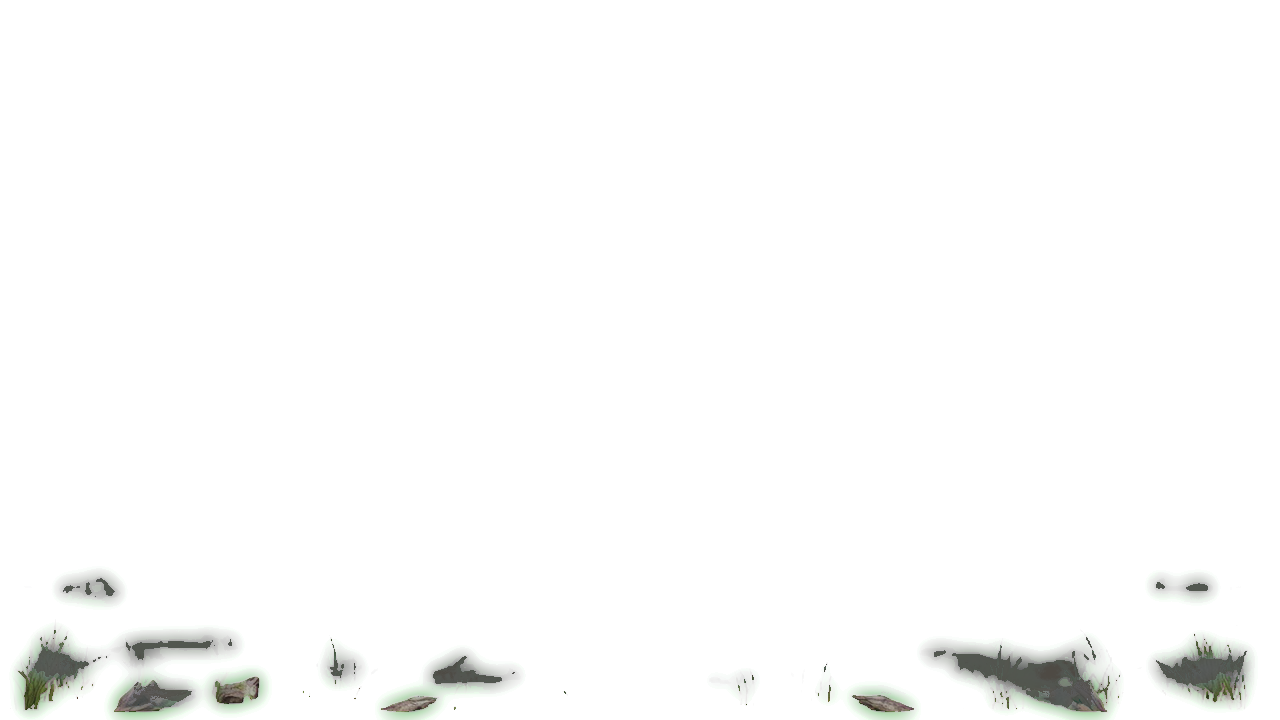
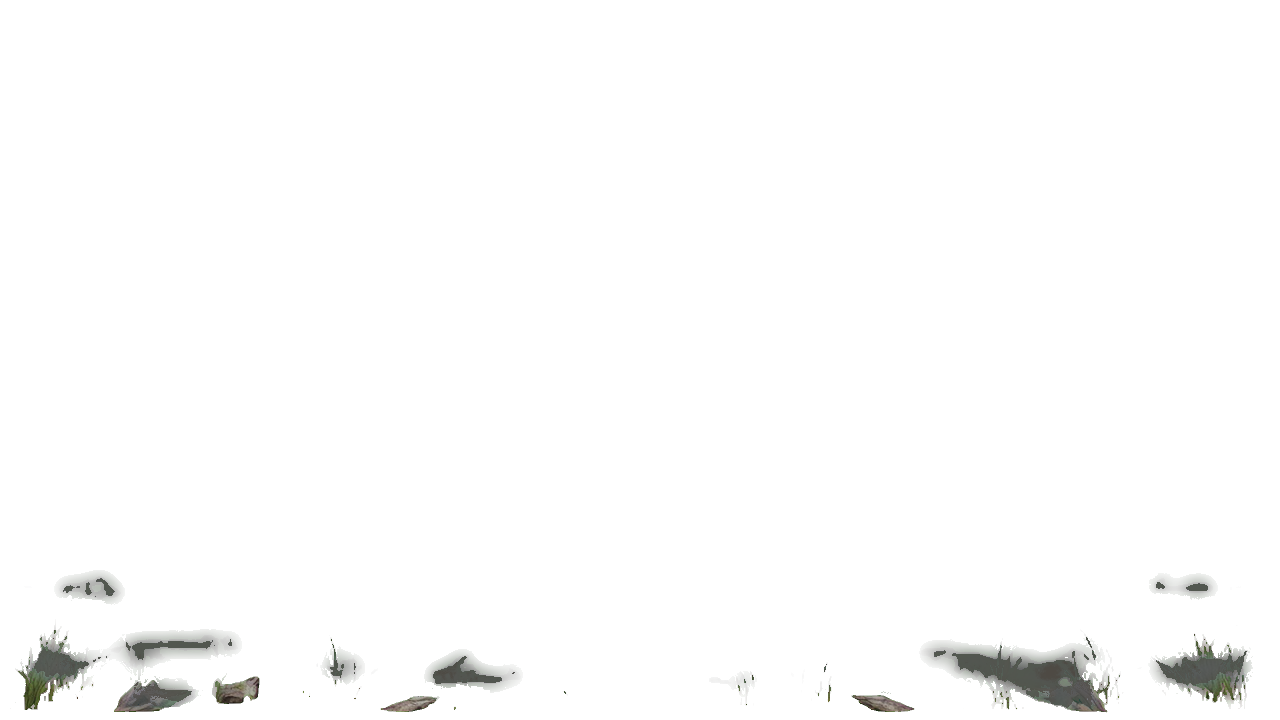
挂上 pr36 重亮多帧，并撤掉旅人静帧钉死。 (#52)
idle/walk/reach 与岸猫落地帧改回彩色多帧。岸猫框略低于旅人，岸门绿边去掉，壁画和裂符热区收到开场画面里。

diff --git a/src/ui/Traveler.test.tsx b/src/ui/Traveler.test.tsx
@@ -56,7 +56,7 @@ describe('traveler art', () => {
     const current = () => view.container.querySelector('[data-layer="current"]')?.getAttribute('src') ?? '';
     expect(mark?.getAttribute('data-figure')).toBe('traveler');
     expect(mark?.getAttribute('data-facing')).toBe('front');
-    expect(current()).toMatch(/04-front/);
+    expect(current()).toMatch(/idle-front-01/);
     expect(view.container.querySelector('.traveler-shade')).toBeNull();
     const shadow = view.container.querySelector('[data-testid="contact-shadow"]') as HTMLElement;
     expect(shadow).toBeTruthy();
@@ -76,6 +76,8 @@ describe('traveler art', () => {
     expect(TRAVELER_HEIGHT).toBeLessThan(0.14);
     expect(mark.style.height).toBe(`${TRAVELER_HEIGHT * 100}%`);
     expect(mark.style.aspectRatio.replace(/\s/g, '')).toBe('3/4');
+    expect(view.container.querySelector('[data-testid="traveler"] .figure-grade')).toBeNull();
+    expect(view.container.querySelectorAll('[data-testid="traveler"] img')).toHaveLength(1);
     const currentMirror = () =>
       view.container.querySelector('[data-layer="current"]')?.parentElement?.getAttribute('data-mirror');
     expect(currentMirror()).toBe('yes');
@@ -84,7 +86,6 @@ describe('traveler art', () => {
     expect(view.container.querySelector('.foot-ellipse')).toBeNull();
     expect(contactShadowWidth(0.95)).toBeLessThan(0.7);
     expect(contactShadowWidth(0.95)).toBeGreaterThan(contactShadowWidth(0.3));
-    expect(view.container.querySelector('.figure-grade')).toBeTruthy();
     expect(mark.style.transform).toContain('translate(-50%');
     expect(mark.style.transform).not.toContain('-50%, -50%');
     expect(TRAVELER_FOOT.y).toBeCloseTo(1151 / 1152);
@@ -175,13 +176,13 @@ describe('traveler art', () => {
     const view = render(<TravelerMark x={0.4} y={0.6} facing="left" moving />);
     const current = () => view.container.querySelector('[data-layer="current"]')?.getAttribute('src') ?? '';
     expect(view.container.querySelector('[data-testid="traveler"]')?.getAttribute('data-facing')).toBe('left');
-    expect(current()).toMatch(/02-side/);
+    expect(current()).toMatch(/walk-side-01/);
 
     view.rerender(<TravelerMark x={0.4} y={0.6} facing="right" moving />);
-    expect(current()).toMatch(/02-side/);
+    expect(current()).toMatch(/walk-side-01/);
 
     view.rerender(<TravelerMark x={0.4} y={0.6} facing="back" moving={false} />);
-    expect(current()).toMatch(/03-back/);
+    expect(current()).toMatch(/idle-back-01/);
     expect(current()).not.toMatch(/walk-back/);
   });
 
@@ -216,21 +217,28 @@ describe('traveler art', () => {
     expect(sheetOf('right')).toBe('side');
     const walkFront = clipFrames('walk', 'front');
     expect(walkFront).toHaveLength(TRAVELER_FRAME_COUNTS.walk);
-    expect(walkFront.every((src) => /04-front/.test(src))).toBe(true);
+    expect(new Set(walkFront).size).toBe(4);
+    expect(walkFront.map((src) => src.match(/walk-front-0[1-4]/)?.[0])).toEqual([
+      'walk-front-01',
+      'walk-front-02',
+      'walk-front-03',
+      'walk-front-04',
+    ]);
     const idleSide = clipFrames('idle', 'side');
     expect(idleSide).toHaveLength(TRAVELER_FRAME_COUNTS.idle);
-    expect(idleSide.every((src) => /02-side/.test(src))).toBe(true);
+    expect(new Set(idleSide).size).toBe(2);
     const walkBack = clipFrames('walk', 'back');
-    expect(walkBack[0]).toMatch(/03-back/);
+    expect(walkBack[0]).toMatch(/walk-back-01/);
     const idleBack = clipFrames('idle', 'back');
     expect(idleBack).toHaveLength(2);
-    expect(idleBack.every((src) => /03-back/.test(src))).toBe(true);
+    expect(new Set(idleBack).size).toBe(2);
+    expect(idleBack.map((src) => src.match(/idle-back-0[12]/)?.[0])).toEqual(['idle-back-01', 'idle-back-02']);
     expect(idleBack.join(' ')).not.toMatch(/walk-back/);
     expect(clipFrames('interact', 'back')).toEqual([idleBack[0]]);
     const reachFront = clipFrames('reach', 'front');
-    expect(reachFront.every((src) => /04-front/.test(src))).toBe(true);
-    expect(reachFront).toHaveLength(2);
-    expect(clipFrames('reach', 'side').every((src) => /02-side/.test(src))).toBe(true);
+    expect(reachFront.map((src) => src.match(/reach-front-0[12]/)?.[0])).toEqual(['reach-front-01', 'reach-front-02']);
+    expect(new Set(reachFront).size).toBe(2);
+    expect(clipFrames('reach', 'side').map((src) => src.match(/reach-side-01/)?.[0])).toEqual(['reach-side-01']);
     expect(poseForSheet('reach', 'back')).toBe('idle');
     expect(clipFrames('reach', 'back')).toEqual(clipFrames('idle', 'back'));
   });
@@ -240,18 +248,18 @@ describe('traveler art', () => {
     const mark = view.container.querySelector('[data-testid="traveler"]');
     expect(mark?.getAttribute('data-pose')).toBe('interact');
     expect(mark?.getAttribute('data-clip-frames')).toBe('1');
-    expect(view.container.querySelector('[data-layer="current"]')?.getAttribute('src')).toMatch(/04-front/);
+    expect(view.container.querySelector('[data-layer="current"]')?.getAttribute('src')).toMatch(/idle-front-01/);
     view.rerender(<TravelerMark x={0.4} y={0.6} facing="front" moving={false} pose="reach" />);
     expect(view.container.querySelector('[data-testid="traveler"]')?.getAttribute('data-pose')).toBe('reach');
     expect(view.container.querySelector('[data-testid="traveler"]')?.getAttribute('data-clip-frames')).toBe('2');
-    expect(view.container.querySelector('[data-layer="current"]')?.getAttribute('src')).toMatch(/04-front/);
+    expect(view.container.querySelector('[data-layer="current"]')?.getAttribute('src')).toMatch(/reach-front-01/);
     view.rerender(<TravelerMark x={0.4} y={0.6} facing="left" moving stride={0.4} pose="reach" />);
     expect(view.container.querySelector('[data-testid="traveler"]')?.getAttribute('data-pose')).toBe('reach');
     expect(view.container.querySelector('[data-testid="traveler"]')?.getAttribute('data-gait')).toBe('0.40');
-    expect(view.container.querySelector('[data-layer="current"]')?.getAttribute('src')).toMatch(/02-side/);
+    expect(view.container.querySelector('[data-layer="current"]')?.getAttribute('src')).toMatch(/reach-side-01/);
     view.rerender(<TravelerMark x={0.4} y={0.6} facing="back" moving={false} pose="reach" />);
     expect(view.container.querySelector('[data-testid="traveler"]')?.getAttribute('data-pose')).toBe('idle');
-    expect(view.container.querySelector('[data-layer="current"]')?.getAttribute('src')).toMatch(/03-back/);
+    expect(view.container.querySelector('[data-layer="current"]')?.getAttribute('src')).toMatch(/idle-back-01/);
   });
 
   it('plays reach only when an interaction happens inside a hotspot', () => {
@@ -287,11 +295,11 @@ describe('traveler art', () => {
     const near = render(layer([here], null));
     const pose = () => near.container.querySelector('[data-testid="traveler"]')?.getAttribute('data-pose');
     expect(pose()).toBe('idle');
-    expect(near.container.querySelector('.nanaicha-ground')?.getAttribute('src')).toMatch(/nanaicha-hero/);
+    expect(near.container.querySelector('.nanaicha-ground')?.getAttribute('src')).toMatch(/land-shore/);
     expect(near.container.querySelector('[data-testid="companion-anchor"]')?.getAttribute('data-sprite')).toMatch(/land-shore/);
     fireEvent.keyDown(window, { key: 'e' });
     expect(pose()).toBe('reach');
-    expect(near.container.querySelector('[data-layer="current"]')?.getAttribute('src')).toMatch(/04-front/);
+    expect(near.container.querySelector('[data-layer="current"]')?.getAttribute('src')).toMatch(/reach-front-01/);
     near.unmount();
     const far = render(layer([away], spawn));
     fireEvent.click(far.getByTestId('shore-depart'));
@@ -439,7 +447,7 @@ describe('traveler art', () => {
     view.rerender(<TravelerMark x={0.4} y={0.6} facing="left" moving />);
     expect(view.container.querySelector('[data-testid="traveler"]')?.getAttribute('data-crossfade')).toBe('yes');
     expect(view.container.querySelector('[data-layer="out"]')).toBeTruthy();
-    expect(view.container.querySelector('[data-layer="current"]')?.getAttribute('src')).toMatch(/02-side/);
+    expect(view.container.querySelector('[data-layer="current"]')?.getAttribute('src')).toMatch(/walk-side-01/);
     expect(view.container.querySelector('.traveler-shade')).toBeNull();
   });
 

diff --git a/src/ui/Traveler.tsx b/src/ui/Traveler.tsx
@@ -21,33 +21,22 @@ export const TRAVELER_FRAME_COUNTS = {
 export const REACH_HZ = 1.4;
 export const REACH_HOLD_MS = 720;
 
-/**
- * Temporary color lock. From #26 the idle/walk/reach sheets are near-black
- * silhouettes. Show the older colored plates until those sheets are relit.
- * Hem punch still runs (it only drops near-black hem pixels) and the sole row stays.
- */
-const COLOR_LOCK: Record<TravelerSheet, string> = {
-  front: '04-front.png',
-  side: '02-side.png',
-  back: '03-back.png',
-};
-
 const WALK_FILES: Record<TravelerSheet, readonly string[]> = {
-  front: [COLOR_LOCK.front, COLOR_LOCK.front, COLOR_LOCK.front, COLOR_LOCK.front],
-  side: [COLOR_LOCK.side, COLOR_LOCK.side, COLOR_LOCK.side, COLOR_LOCK.side],
-  back: [COLOR_LOCK.back, COLOR_LOCK.back, COLOR_LOCK.back, COLOR_LOCK.back],
+  front: ['walk-front-01.png', 'walk-front-02.png', 'walk-front-03.png', 'walk-front-04.png'],
+  side: ['walk-side-01.png', 'walk-side-02.png', 'walk-side-03.png', 'walk-side-04.png'],
+  back: ['walk-back-01.png', 'walk-back-02.png', 'walk-back-03.png', 'walk-back-04.png'],
 };
 
 const IDLE_FILES: Record<TravelerSheet, readonly string[]> = {
-  front: [COLOR_LOCK.front, COLOR_LOCK.front],
-  side: [COLOR_LOCK.side, COLOR_LOCK.side],
-  back: [COLOR_LOCK.back, COLOR_LOCK.back],
+  front: ['idle-front-01.png', 'idle-front-02.png'],
+  side: ['idle-side-01.png', 'idle-side-02.png'],
+  back: ['idle-back-01.png', 'idle-back-02.png'],
 };
 
 /** Back reach was not delivered. Missing sheets fall back to idle. */
 const REACH_FILES: Partial<Record<TravelerSheet, readonly string[]>> = {
-  front: [COLOR_LOCK.front, COLOR_LOCK.front],
-  side: [COLOR_LOCK.side],
+  front: ['reach-front-01.png', 'reach-front-02.png'],
+  side: ['reach-side-01.png'],
 };
 
 function frameSrc(file: string): string {
@@ -64,9 +53,10 @@ export const WALK_STRIDE = WALK_SPEED / WALK_CYCLE_HZ;
 /**
  * Figure box height as a fraction of the world layer.
  * At WORLD_SCALE 1.46 a 0.15 box filled ~22% of the viewport and read as too tall
- * against the plate. 0.118 keeps the opaque body on the ground band.
+ * against the plate. 0.136 is about 20% of the viewport: taller than the
+ * shore cat's painted body, still under that 22% mark.
  */
-export const TRAVELER_HEIGHT = 0.118;
+export const TRAVELER_HEIGHT = 0.136;
 /**
  * Opaque-bounds bottom center on the 864×1152 sheet.
  * The soft contact (rgb ≈ 28,22,16, gaussian edge) reaches the last row.
@@ -259,7 +249,6 @@ function FramePicture({ blend, layer }: { blend: FrameBlend; layer: 'out' | 'cur
     <span
       className={layer === 'out' ? 'traveler-frame-wrap out' : 'traveler-frame-wrap'}
       data-mirror={blend.facing === 'left' ? 'yes' : 'no'}
-      style={{ ['--figure' as string]: `url("${shown}")` }}
     >
       <img
         className={layer === 'current' ? 'traveler-figure traveler-frame' : 'traveler-frame'}
@@ -269,8 +258,6 @@ function FramePicture({ blend, layer }: { blend: FrameBlend; layer: 'out' | 'cur
         alt=""
         draggable={false}
       />
-      <span className="figure-grade grade-color" />
-      <span className="figure-grade grade-soft" />
     </span>
   );
 }

diff --git a/src/ui/WalkLayer.tsx b/src/ui/WalkLayer.tsx
@@ -1,6 +1,6 @@
 import { useEffect, useRef, useState } from 'react';
 import type { CatPost } from '../core/companionPost';
-import { companionFace, companionFoot, companionSole, NANAICHA_HEIGHT } from '../core/companionPost';
+import { companionFace, companionFoot, companionSole, NANAICHA_HEIGHT, SHORE_CAT_HEIGHT } from '../core/companionPost';
 import { companionFrameId, trajClip, type GuidePhase, type TrajClip } from '../core/companionTraj';
 import type { CompanionPose, HintAnchor } from '../core/hints';
 import type { IslandScene } from '../core/island';
@@ -27,7 +27,7 @@ import { t } from './i18n';
 import { PlateStack, type SpotBeat } from './Plate';
 import { gateLabel, type SpotView } from './spotViews';
 import { sceneGrade, sceneLook, sceneStrip } from './cohesion';
-import { heroUrl, loadHero, loadTraj, trajUrl } from './trajArt';
+import { loadTraj, trajUrl } from './trajArt';
 import { contactLift, contactOpacity, depthScale, worldToScreen } from '../core/world';
 import { facingFromMove, REACH_HOLD_MS, TravelerMark, type TravelerFacing } from './Traveler';
 
@@ -466,9 +466,8 @@ export function WalkLayer({
       : scene === 'dba.scene.yard' || scene === 'dba.scene.path'
         ? 'art.yard.prop.nanaicha'
         : 'art.shore.prop.nanaicha';
-  const shoreCat = scene === 'dba.scene.shore';
   const [catFigure, setCatFigure] = useState<string | undefined>(
-    () => (shoreCat ? heroUrl() : trajUrl(catSprite) ?? resolveSlotAsset(slotCat)) ?? undefined,
+    () => trajUrl(catSprite) ?? resolveSlotAsset(slotCat) ?? undefined,
   );
   const flashId =
     flash?.kind === 'driftwood'
@@ -486,16 +485,13 @@ export function WalkLayer({
     loadSlotAsset(groundAsset).then((url) => {
       if (live) setGroundPlate(url);
     });
-    const figure = shoreCat
-      ? loadHero()
-      : Promise.all([loadTraj(catSprite), loadSlotAsset(slotCat)]).then(([frame, plate]) => frame ?? plate ?? null);
-    figure.then((url) => {
-      if (live && url) setCatFigure(url);
+    Promise.all([loadTraj(catSprite), loadSlotAsset(slotCat)]).then(([frame, plate]) => {
+      if (live) setCatFigure(frame ?? plate ?? undefined);
     });
     return () => {
       live = false;
     };
-  }, [scene, groundAsset, catSprite, slotCat, shoreCat]);
+  }, [scene, groundAsset, catSprite, slotCat]);
   useEffect(() => {
     let live = true;
     setFlashSrc(resolveSlotAsset(flashId));
@@ -647,7 +643,7 @@ export function WalkLayer({
               ['--foot-x' as string]: `${catFoot.x * 100}%`,
               ['--foot-y' as string]: `${catFoot.y * 100}%`,
               ['--sole-y' as string]: `${companionSole(catSprite) * 100}%`,
-              height: `${NANAICHA_HEIGHT * 100}%`,
+              height: `${(scene === 'dba.scene.shore' ? SHORE_CAT_HEIGHT : NANAICHA_HEIGHT) * 100}%`,
             }}
           >
             <span

diff --git a/src/ui/trajArt.ts b/src/ui/trajArt.ts
@@ -32,27 +32,6 @@ export function loadTraj(id: string): Promise<string | null> {
   return job;
 }
 
-const heroLoaders = import.meta.glob<string>('../assets/companion/nanaicha/nanaicha-hero.png', { import: 'default' });
-const heroLoader = Object.values(heroLoaders)[0] as (() => Promise<string>) | undefined;
-let heroCache: string | undefined;
-let heroPending: Promise<string | null> | null = null;
-
-/** Colored standing plate. Shore landings from #26 are near-black, so the shore cat uses this. */
-export function heroUrl(): string | undefined {
-  return heroCache;
-}
-
-export function loadHero(): Promise<string | null> {
-  if (heroCache) return Promise.resolve(heroCache);
-  if (!heroLoader) return Promise.resolve(null);
-  heroPending ??= heroLoader().then((url) => {
-    heroCache = url;
-    return url;
-  });
-  return heroPending;
-}
-
 if (import.meta.env.MODE === 'test') {
   await Promise.all([...byId.keys()].map((id) => loadTraj(id)));
-  await loadHero();
 }

diff --git a/src/ui/hotspotAcceptance.test.tsx b/src/ui/hotspotAcceptance.test.tsx
@@ -30,9 +30,9 @@ describe('hotspot acceptance', () => {
   it('anchors every shore, camp, and yard spot on its own prop', () => {
     const shore = [
       ['shore-driftwood', 'art.shore.prop.driftwood', 0.33, 0.71, 0.05],
-      ['shore-stone', 'art.shore.prop.break-shard', 0.17, 0.68, 0.05],
+      ['shore-stone', 'art.shore.prop.break-shard', 0.22, 0.68, 0.05],
       ['island-gourd', 'art.shore.prop.gourd', 0.58, 0.64, 0.068],
-      ['island-mural', 'art.shore.prop.mural-wall', 0.2, 0.56, 0.072],
+      ['island-mural', 'art.shore.prop.mural-wall', 0.26, 0.56, 0.072],
       ['shore-depart', 'art.shore.prop.east-gap', 0.74, 0.54, 0.05],
     ] as const;
     expect(SPOTS['dba.scene.shore']).toHaveLength(5);

diff --git a/src/core/companionPost.ts b/src/core/companionPost.ts
@@ -49,6 +49,13 @@ export function companionFace(frameId: string, postX: number, catX: number): 'le
 }
 /** Canvas height as a fraction of the world layer. Subject reads a little taller than the traveler. */
 export const NANAICHA_HEIGHT = 0.22;
+/**
+ * Shore landings leave empty headroom, so the same 0.22 box painted a cat
+ * taller than the traveler. This box keeps the seated shore body slightly
+ * under TRAVELER_HEIGHT. Camp and yard, including the give claws, stay at
+ * NANAICHA_HEIGHT.
+ */
+export const SHORE_CAT_HEIGHT = 0.168;
 
 export type GazeStep = 'water' | 'food' | 'sleep' | 'danger' | 'done';
 

diff --git a/src/core/stage.ts b/src/core/stage.ts
@@ -61,8 +61,8 @@ export const GATES: readonly Gate[] = [
 
 export const SPOTS: Record<IslandScene, readonly Spot[]> = {
   'dba.scene.shore': [
-    { id: 'island-mural', x: 0.2, y: 0.56, r: 0.072 },
-    { id: 'shore-stone', x: 0.17, y: 0.68, r: 0.05 },
+    { id: 'island-mural', x: 0.26, y: 0.56, r: 0.072 },
+    { id: 'shore-stone', x: 0.22, y: 0.68, r: 0.05 },
     { id: 'shore-driftwood', x: 0.33, y: 0.71, r: 0.05 },
     { id: 'island-gourd', x: 0.58, y: 0.64, r: 0.068 },
     { id: 'shore-depart', x: 0.74, y: 0.54, r: 0.05 },

diff --git a/src/core/walk.test.ts b/src/core/walk.test.ts
@@ -112,9 +112,9 @@ describe('walk', () => {
   });
 
   it('only counts a hotspot when the traveler is inside its radius', () => {
-    const spot = { x: 0.2, y: 0.56 };
+    const spot = { x: 0.26, y: 0.56 };
     expect(inRadius({ x: 0.42, y: 0.62 }, spot, 0.072)).toBe(false);
-    expect(inRadius({ x: 0.22, y: 0.58 }, spot, 0.072)).toBe(true);
+    expect(inRadius({ x: 0.28, y: 0.58 }, spot, 0.072)).toBe(true);
   });
 });
 
